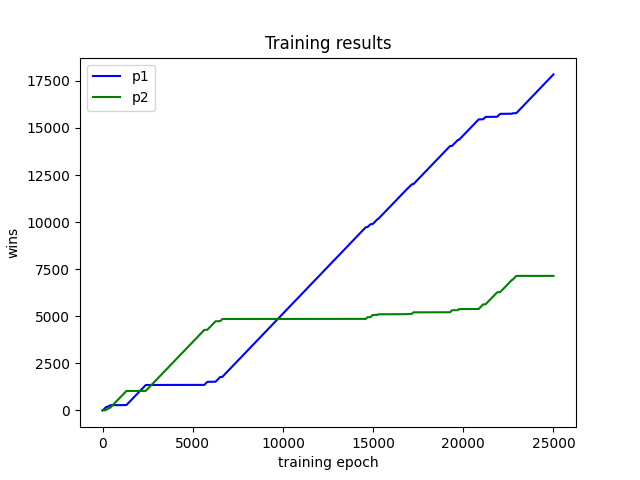
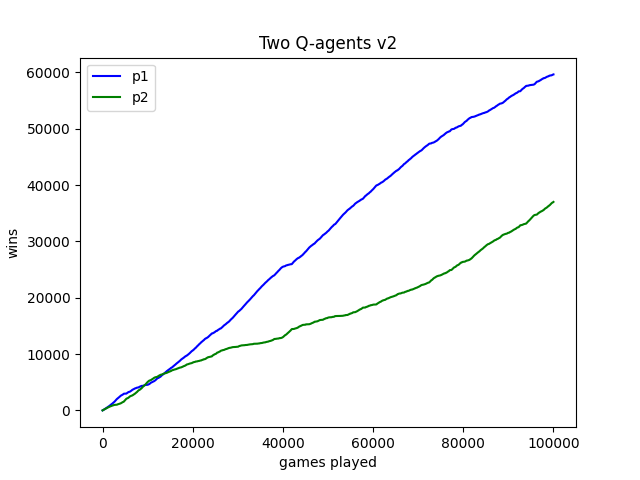
more v2 stuff + some bugs w/ mancala game

diff --git a/code/train_q_v2.py b/code/train_q_v2.py
@@ -18,21 +18,21 @@ HYPERPARAMETERS
 '''
 gamma = 0.99
 epsilon = 1.0
-lr = 0.001
+lr = 1e-4
 
-num_games = 25000
+num_games = 100000
 
-x = 50 # during training, print p1 win rate out of last x games
+x = 250 # during training, print p1 win rate out of last x games
 
-if __name__ == '__main__':
+def train(a1, a2):
     p1_wins = [0] * num_games
     p2_wins = [0] * num_games
     ties = 0
 
     num_turns = [0] * num_games
 
-    agent1 = MyQAgent(gamma, epsilon, lr)
-    agent2 = MyQAgent(gamma, epsilon, lr)
+    agent1 = a1
+    agent2 = a2
 
     for iter in range(num_games):
         g = Mancala()
@@ -104,6 +104,7 @@ if __name__ == '__main__':
     
 
     print(f'\n------ Training complete ------')
+    print(f'p1 wins: {p1_wins[-1]}, p2 wins: {p2_wins[-1]}')
     print('Num turns:')
     print(f'min= {min(num_turns)}')
     print(f'max= {max(num_turns)}')
@@ -126,3 +127,53 @@ if __name__ == '__main__':
 
     # Display the plot
     plt.show()
+
+    # return better agent based on last 1000 games
+    if num_games < 2000:
+        return agent1
+    
+    if (p1_wins[-1] - p1_wins[-1000]) > 500:
+        print('Selecting agent1 from training')
+        return agent1
+    else:
+        return agent2
+    
+def play_vs_agent(agent):
+    print('Enter \'c\' to play game against agent: ')
+    cont = input()
+    while(cont == 'c'):
+        game = Mancala()
+
+        while not game.over:
+            game.print_board()
+            p1 = (game.turn % 2 == 1)
+            if p1:
+                print(f'(turn {game.turn}) Player, enter a well to empty:')
+                w = int(input())
+                game.action(w, zero_ind=False)
+                print()
+            else:
+                w = agent.choose_action(game.observation(), playing=True)
+                print(f'(turn {game.turn}) Agent picks well {w + 1}.\n')
+                game.action(w, zero_ind=True)
+
+        game.print_board()
+        if game.wells[6] > game.wells[13]:
+            print(f'Player 1 wins \np1: {game.wells[6]} \np2: {game.wells[13]}')
+        elif game.wells[6] < game.wells[13]:
+            print(f'Player 2 wins \np1: {game.wells[6]} \np2: {game.wells[13]}')
+        else:
+            print(f'Tie \np1: {game.wells[6]} \np2: {game.wells[13]}')
+        print('-------------------------------------------------')
+        print('Enter \'c\' to play another game against agent: ')
+        cont = input()  
+        
+
+if __name__ == '__main__':
+    agent1 = MyQAgent(gamma, epsilon, lr)
+    agent2 = MyQAgent(gamma, epsilon, lr)
+
+    # train returns better agent
+    a = train(agent1, agent2)
+
+    play_vs_agent(a)

diff --git a/code/mancala.py b/code/mancala.py
@@ -28,6 +28,7 @@ class Mancala:
     Initializes mancala board with starting marbles, begins turn counter.
     '''
     def __init__(self):
+        self.wells = [0] * 14
         self.wells[0:6] = [4] * 6
         self.wells[7:13] = [4] * 6
         self.turn = 1
@@ -100,16 +101,18 @@ class Mancala:
             marbles -= 1
             
         # capture opposite marbles when landing in empty well
-        if p1 and i >= 1 and i < 7 and self.wells[i - 1] == 1:
+        if p1 and i >= 1 and i < 7 and self.wells[i - 1] == 1 and self.wells[13 - i] != 0:
             self.wells[6] += self.wells[13 - i] + 1
             self.wells[i - 1] = 0
             self.wells[13 - i] = 0
-        if not p1 and i >= 8 and i < 14 and self.wells[i - 1] == 1:
+        if not p1 and i >= 8 and i < 14 and self.wells[i - 1] == 1 and self.wells[13 - i] != 0:
             self.wells[13] += self.wells[13 - i] + 1
             self.wells[i - 1] = 0
             self.wells[13 - i] = 0
 
         if self.check_end():
+            if self.wells[6] + self.wells[13] != 48:
+                print(f'MANCALA ERROR: impossible sum reached; board: {self.wells}')
             return 4, True, self.wells
         
         # account for turn continuation when last marble put in well

diff --git a/code/Qagent_v2.py b/code/Qagent_v2.py
@@ -21,7 +21,7 @@ class MyQAgent:
     - n_actions: This is fixed for the game
     - max_mem_sz: batch stuff
     '''
-    def __init__(self, gamma, epsilon, lr, eps_end=0.01, eps_dec=5e-3):
+    def __init__(self, gamma, epsilon, lr, eps_end=0.01, eps_dec=5e-4):
         self.gamma = gamma
         self.epsilon = epsilon      # proportion of time taking random actions
         self.eps_min = eps_end
@@ -73,9 +73,13 @@ class MyQAgent:
             r = 0
         self.reward_memory[self.mem_cnt - 1] += r
 
-    def choose_action(self, observation):
+    '''
+    playing is a boolean flag to indicate when agent should only choose model's decision 
+    (i.e. when playing against human).
+    '''
+    def choose_action(self, observation, playing=False):
         wells, legal_actions = observation
-        if np.random.random() > self.epsilon:
+        if playing or np.random.random() > self.epsilon:
             state = torch.tensor(wells, dtype=torch.float32).to(self.Q_eval.device)
             actions = self.Q_eval.forward(state)
             actions = actions[legal_actions]

diff --git a/code/train_q_v1.py b/code/train_q_v1.py
@@ -23,7 +23,7 @@ epsilon = 1.0
 lr = 0.001
 batch_size = 64
 
-num_games = 500
+num_games = 10000
 
 if __name__ == '__main__':
     p1_wins = [0] * num_games
@@ -43,7 +43,7 @@ if __name__ == '__main__':
                 # agent1's turn
                 action = agent1.choose_action(observation)
 
-                g.action(action + 1) # plus 1 cuz zero-indexing thing
+                g.action(action, zero_ind=True)
                 new_observation = g.observation()
 
                 # get reward; for now only associate with game win
@@ -72,7 +72,7 @@ if __name__ == '__main__':
                 # agent2's turn
                 action = agent2.choose_action(observation)
 
-                g.action(action + 1)
+                g.action(action, zero_ind=True)
                 new_observation = g.observation()
 
                 # get reward; for now only associate with game win

diff --git a/results/q_v1/notes.md b/results/q_v1/notes.md
@@ -1,3 +1,6 @@
+# UPDATE
+Observations should be disregarded, there was a catastrophic bug in my training implementation (failed to properly reset the game at each iteration, whoops). Thoughts on how to improve still stand.
+
 # Q-agent vs Q-agent version 1 training notes
 These are the training results of the most preliminary versions of the model. The model architecture at this point is essentially exactly as implemented in this video, just modified to handle the specific application to the game of mancala: https://www.youtube.com/watch?v=wc-FxNENg9U
 

diff --git a/results/q_v2/notes.md b/results/q_v2/notes.md
@@ -1,0 +1,2 @@
+# Q-agent vs Q-agent version 2 notes
+After fixing some silly errors in my program, 
